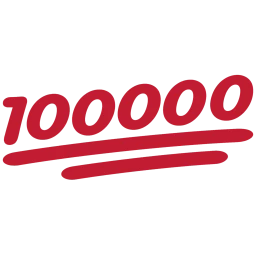
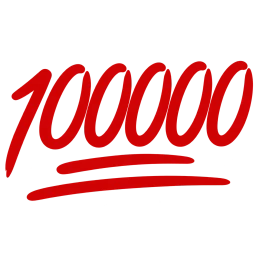
feat: add new emoji 100000 with approved style match and update related assets

diff --git a/staging/emoji-enhancements/100000-style-match/README.md b/staging/emoji-enhancements/100000-style-match/README.md
@@ -1,0 +1,11 @@
+# 100000 style match
+
+Request: redo `100000` to look like `10000`.
+
+Generated with the built-in image_gen tool using `public/emojis/10000.webp` as the visual reference. `generated.png` preserves the tool output; `candidate.webp` is a lossless encoding. `original.webp` archives the current production asset. The two 128px previews demonstrate the candidate on light and dark backgrounds.
+
+Review: exact six-digit text (one 1 and five zeros), narrow slanted red brush lettering, two tapered underlines, and transparent background. Inspected both previews. User approved the exact candidate SHA-256 recorded in `manifest.json`; promoted to `public/emojis/100000.webp`. Original image and metadata are archived here.
+
+## Prompt
+
+Use case: text-localization. Create a replacement emoji using the attached 10000 emoji as the style reference. Exact text: "100000" (one 1 followed by FIVE zeros), all on one line. Match the reference narrow, tall, right-slanted red handwritten brush numerals, tapered stroke ends, dark vivid red color, and two separate sweeping red brush underlines (shorter upper underline and longer lower underline). Adapt spacing to fit six digits cleanly. Keep the artwork large and centered on a square canvas. Transparent background, including inside every zero. Only the red numerals and two red underlines should be visible; no white backing, extrusion, shadow, colored artifacts or extra marks. Crisp emoji artwork that reads at small sizes.
